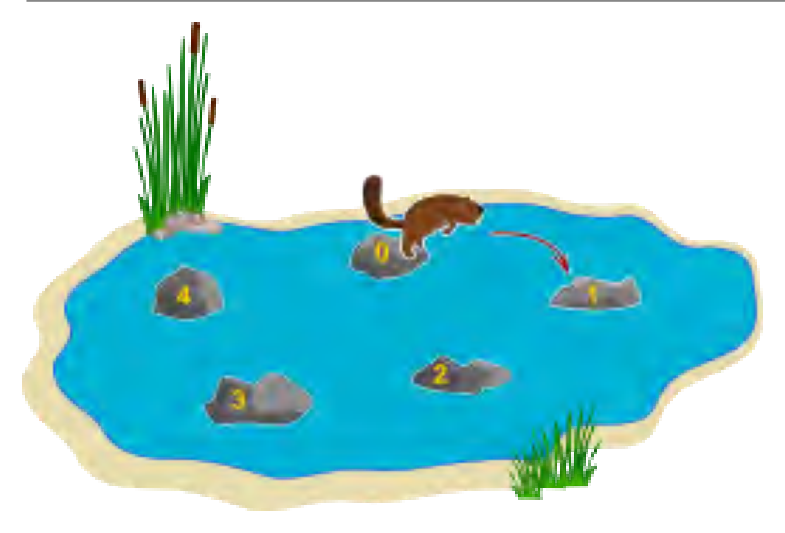
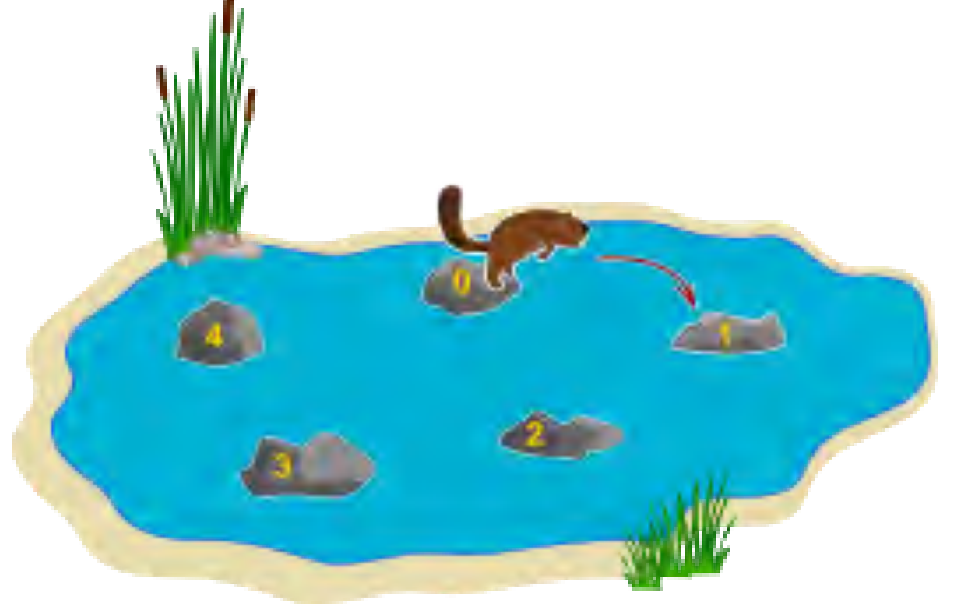
2018題庫補強：20題圖片提高解析度去除頁面分隔線殘留，24題標題與CT例句潤飾
- IN-2018-20：重新以較高dpi裁切，移除圖片上緣的頁面分隔線殘留
- IN-2018-24：標題改為「Mangal星球的城市」避免與「火星」重複；CT說明例句
  「月亮睡著了泡泡糖」改為語意更清楚的無意義例句「月亮正在咀嚼一段星期三」

Claude-Session: https://claude.ai/code/session_018sbfsTk8KYDZuKk55mzVea

diff --git a/review/2018_review.html b/review/2018_review.html
@@ -232,7 +232,7 @@ footer a{ color:var(--accent-ink); }
 <a class="idx-item" href="#IN-2018-21"><span class="idx-num">21</span><span class="idx-flag">🇨🇦</span><span class="idx-title">跳格子棋盤</span></a>
 <a class="idx-item" href="#IN-2018-22"><span class="idx-num">22</span><span class="idx-flag">🇪🇸</span><span class="idx-title">光纖網路佈線</span></a>
 <a class="idx-item" href="#IN-2018-23"><span class="idx-num">23</span><span class="idx-flag">🇩🇪</span><span class="idx-title">海狸密碼環</span></a>
-<a class="idx-item" href="#IN-2018-24"><span class="idx-num">24</span><span class="idx-flag">🇩🇪</span><span class="idx-title">火星星球城市</span></a>
+<a class="idx-item" href="#IN-2018-24"><span class="idx-num">24</span><span class="idx-flag">🇩🇪</span><span class="idx-title">Mangal星球的城市</span></a>
 <a class="idx-item" href="#IN-2018-25"><span class="idx-num">25</span><span class="idx-flag">🇨🇿</span><span class="idx-title">醫療實驗室搖晃機</span><span class="idx-noimg">無圖</span></a>
 <a class="idx-item" href="#IN-2018-26"><span class="idx-num">26</span><span class="idx-flag">🇷🇴</span><span class="idx-title">海狸先生的生日派對</span></a>
     </nav>
@@ -1435,7 +1435,7 @@ footer a{ color:var(--accent-ink); }
 
       <div class="task-body">
         <figure class="task-figure">
[2 lines of base64/hex data omitted]
               <figcaption>圖片素材 · assets/images/india/2018/IN-2018-20.png</figcaption>
             </figure>
 
@@ -1675,7 +1675,7 @@ footer a{ color:var(--accent-ink); }
           </span>
         </div>
         <h2 class="task-title">
-          <span class="flag">🇩🇪</span>火星星球城市
+          <span class="flag">🇩🇪</span>Mangal星球的城市
           <span class="task-title-en">Planet Mangal</span>
         </h2>
         <div class="task-origin">原始出處：Germany · Copyright © 2018 Bebras, Bebras India. 原始出處國：Germany</div>
